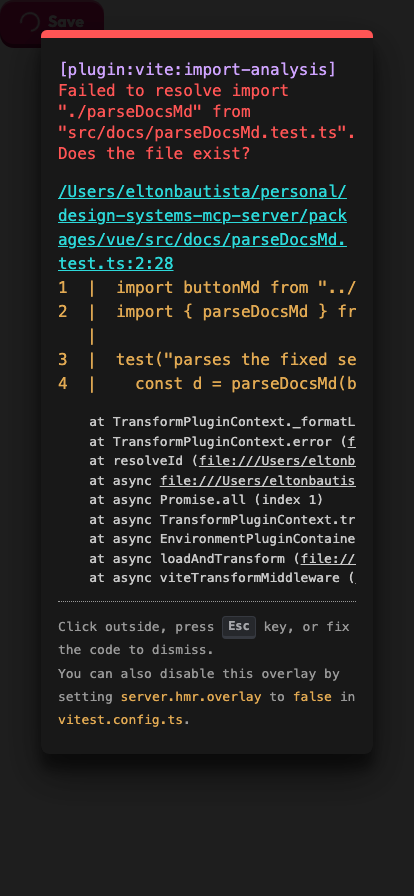
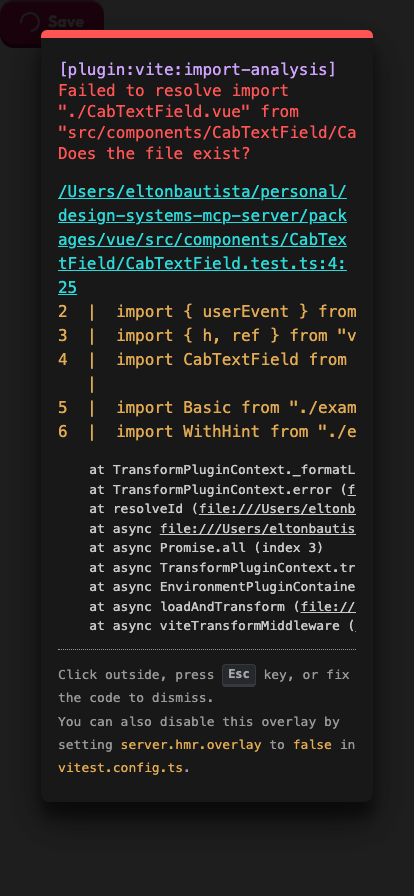
feat(vue): CabTextField

diff --git a/packages/vue/src/components/CabTextField/CabTextField.test.ts b/packages/vue/src/components/CabTextField/CabTextField.test.ts
@@ -1,0 +1,71 @@
+import { render } from 'vitest-browser-vue'
+import { userEvent } from 'vitest/browser'
+import { h, ref } from 'vue'
+import CabTextField from './CabTextField.vue'
+import Basic from './examples/Basic.vue'
+import WithHint from './examples/WithHint.vue'
+import WithError from './examples/WithError.vue'
+import { expectNoA11yViolations } from '../../../test/axe'
+
+const base = { modelValue: '', label: 'Email' }
+
+test('label is programmatically associated', async () => {
+  const screen = await render(CabTextField, { props: base })
+  await expect.element(screen.getByLabelText('Email')).toBeInTheDocument()
+})
+
+test('typing emits update:modelValue', async () => {
+  const screen = await render(CabTextField, { props: base })
+  await userEvent.type(screen.getByLabelText('Email'), 'a')
+  expect(screen.emitted('update:modelValue')?.at(-1)).toEqual(['a'])
+})
+
+test('hint and error are both in aria-describedby, error last', async () => {
+  const screen = await render(CabTextField, { props: { ...base, hint: 'We never share it.', error: 'Enter an email address.' } })
+  const input = screen.getByLabelText('Email').element()
+  const ids = input.getAttribute('aria-describedby')!.split(' ')
+  expect(ids).toHaveLength(2)
+  expect(document.getElementById(ids[0]!)!.textContent).toContain('We never share it.')
+  expect(document.getElementById(ids[1]!)!.textContent).toContain('Enter an email address.')
+})
+
+test('error sets aria-invalid="true" and renders the text with color.danger.text', async () => {
+  const screen = await render(CabTextField, { props: { ...base, error: 'Enter an email address.' } })
+  await expect.element(screen.getByLabelText('Email')).toHaveAttribute('aria-invalid', 'true')
+  const err = screen.getByText('Enter an email address.').element()
+  expect(getComputedStyle(err).color).toBe('rgb(180, 0, 42)')
+})
+
+test('no error means no aria-invalid and no empty describedby', async () => {
+  const screen = await render(CabTextField, { props: base })
+  const input = screen.getByLabelText('Email')
+  await expect.element(input).not.toHaveAttribute('aria-invalid')
+  await expect.element(input).not.toHaveAttribute('aria-describedby')
+})
+
+test('required shows a visual marker that is aria-hidden and sets the required attribute', async () => {
+  const screen = await render(CabTextField, { props: { ...base, required: true } })
+  await expect.element(screen.getByRole('textbox', { name: 'Email', exact: true })).toBeRequired()
+  const marker = screen.container.querySelector('.cab-field__required')!
+  expect(marker.getAttribute('aria-hidden')).toBe('true')
+})
+
+test('two instances get distinct ids', async () => {
+  const a = ref(''), b = ref('')
+  const screen = await render({
+    setup: () => () => [
+      h(CabTextField, { label: 'First', modelValue: a.value, hint: 'h1' }),
+      h(CabTextField, { label: 'Second', modelValue: b.value, hint: 'h2' }),
+    ],
+  })
+  const one = screen.getByLabelText('First').element(), two = screen.getByLabelText('Second').element()
+  expect(one.id).not.toBe(two.id)
+  expect(one.getAttribute('aria-describedby')).not.toBe(two.getAttribute('aria-describedby'))
+})
+
+test('examples have no axe violations', async () => {
+  for (const Ex of [Basic, WithHint, WithError]) {
+    const screen = await render(h(Ex))
+    await expectNoA11yViolations(screen.container)
+  }
+})

diff --git a/packages/vue/src/components/CabTextField/CabTextField.vue b/packages/vue/src/components/CabTextField/CabTextField.vue
@@ -1,0 +1,65 @@
+<script setup lang="ts">
+/**
+ * A single-line text input with a visible label, optional hint and an error message.
+ * Errors are announced through `aria-describedby` and marked with `aria-invalid`.
+ */
+import { computed, useId } from 'vue'
+import FieldError from '../FieldError.vue'
+
+defineOptions({ name: 'CabTextField' })
+
+const props = withDefaults(defineProps<{
+  /** Current value (use `v-model`). */
+  modelValue: string
+  /** Visible label. Required: placeholders are not labels. */
+  label: string
+  /** Helper text shown under the label and announced after it. */
+  hint?: string
+  /** Error message. When set, the field is marked invalid and the message is announced. */
+  error?: string
+  /** Native input type. */
+  type?: 'text' | 'email' | 'password' | 'tel' | 'url' | 'search'
+  /** Marks the field required (native `required` plus a visual asterisk). */
+  required?: boolean
+  /** Disables the field. */
+  disabled?: boolean
+  /** Native `autocomplete` token, e.g. `email` or `name`. */
+  autocomplete?: string
+  /** Placeholder example text. Never a substitute for `label` or `hint`. */
+  placeholder?: string
+}>(), { type: 'text', required: false, disabled: false })
+
+const emit = defineEmits<{
+  /** Fired on every input with the new value. */
+  'update:modelValue': [value: string]
+}>()
+
+const id = useId()
+const hintId = `${id}-hint`
+const errorId = `${id}-error`
+const describedBy = computed(() =>
+  [props.hint && hintId, props.error && errorId].filter(Boolean).join(' ') || undefined)
+</script>
+
+<template>
+  <div class="cab-field cab-text-field">
+    <label :for="id" class="cab-field__label">
+      {{ label }}<span v-if="required" class="cab-field__required" aria-hidden="true">*</span>
+    </label>
+    <p v-if="hint" :id="hintId" class="cab-field__hint">{{ hint }}</p>
+    <input
+      :id="id"
+      class="cab-control cab-focus"
+      :type="type"
+      :value="modelValue"
+      :required="required"
+      :disabled="disabled"
+      :autocomplete="autocomplete"
+      :placeholder="placeholder"
+      :aria-invalid="error ? 'true' : undefined"
+      :aria-describedby="describedBy"
+      @input="emit('update:modelValue', ($event.target as HTMLInputElement).value)"
+    >
+    <FieldError v-if="error" :id="errorId">{{ error }}</FieldError>
+  </div>
+</template>

diff --git a/packages/vue/src/styles/field.css b/packages/vue/src/styles/field.css
@@ -1,0 +1,29 @@
+/* Shared label / hint / error layout for form fields. */
+.cab-field { display: grid; gap: var(--cab-space-2); font-family: var(--cab-font-family-body); color: var(--cab-color-text-default); }
+.cab-field__label { font-size: var(--cab-font-size-md); font-weight: var(--cab-font-weight-bold); }
+.cab-field__required { color: var(--cab-color-action-primary-bg); margin-inline-start: var(--cab-space-1); }
+.cab-field__hint { font-size: var(--cab-font-size-sm); color: var(--cab-color-text-muted); }
+.cab-field__error {
+  display: flex; gap: var(--cab-space-2); align-items: baseline;
+  font-size: var(--cab-font-size-sm); font-weight: var(--cab-font-weight-medium);
+  color: var(--cab-color-danger-text);
+}
+.cab-field__error-icon { flex: none; width: 1em; height: 1em; translate: 0 0.15em; }
+.cab-control {
+  width: 100%;
+  box-sizing: border-box;
+  min-height: 48px;
+  padding: var(--cab-space-3) var(--cab-space-4);
+  border: 2px solid var(--cab-color-border-strong);
+  border-radius: var(--cab-radius-md);
+  background: var(--cab-color-bg-surface);
+  color: var(--cab-color-text-default);
+  font: inherit;
+  font-size: var(--cab-font-size-md);
+  transition: border-color var(--cab-motion-duration-base) var(--cab-motion-easing-standard),
+    box-shadow var(--cab-motion-duration-base) var(--cab-motion-easing-standard);
+}
+.cab-control::placeholder { color: var(--cab-color-text-muted); }
+.cab-control:hover:not(:disabled) { border-color: var(--cab-color-text-default); }
+.cab-control[aria-invalid='true'] { border-color: var(--cab-color-danger-text); }
+.cab-control:disabled { background: var(--cab-color-bg-sunken); color: var(--cab-color-text-muted); cursor: not-allowed; }

diff --git a/packages/vue/src/components/CabTextField/CabTextField.stories.ts b/packages/vue/src/components/CabTextField/CabTextField.stories.ts
@@ -1,0 +1,31 @@
+import type { Meta, StoryObj } from '@storybook/vue3-vite'
+import { ref } from 'vue'
+import CabTextField from './CabTextField.vue'
+import md from './CabTextField.docs.md?raw'
+import Basic from './examples/Basic.vue'
+import BasicSrc from './examples/Basic.vue?raw'
+import WithHint from './examples/WithHint.vue'
+import WithHintSrc from './examples/WithHint.vue?raw'
+import WithError from './examples/WithError.vue'
+import WithErrorSrc from './examples/WithError.vue?raw'
+import { docsDescription } from '../../docs/parseDocsMd'
+import { exampleStory } from '../../docs/stories'
+
+const meta = {
+  title: 'Components/CabTextField',
+  component: CabTextField,
+  parameters: { docs: { description: { component: docsDescription(md, 'CabTextField.docs.md') } } },
+  args: { modelValue: '', label: 'Email', type: 'email', hint: 'We only use it to send your ticket.' },
+  render: args => ({
+    components: { CabTextField },
+    setup: () => { const v = ref(args.modelValue); return { args, v } },
+    template: '<CabTextField v-bind="args" v-model="v" />',
+  }),
+} satisfies Meta<typeof CabTextField>
+export default meta
+type Story = StoryObj<typeof meta>
+
+export const Playground: Story = {}
+export const BasicExample: Story = exampleStory('Basic', Basic, BasicSrc)
+export const WithHintExample: Story = exampleStory('With hint', WithHint, WithHintSrc)
+export const WithErrorExample: Story = exampleStory('With error', WithError, WithErrorSrc)

diff --git a/packages/vue/src/components/FieldError.vue b/packages/vue/src/components/FieldError.vue
@@ -1,0 +1,14 @@
+<script setup lang="ts">
+/** Internal: an error message with a drawn warning icon, so colour is never the only signal. */
+defineProps<{ id: string }>()
+</script>
+
+<template>
+  <p :id="id" class="cab-field__error">
+    <svg class="cab-field__error-icon" viewBox="0 0 16 16" aria-hidden="true" focusable="false">
+      <circle cx="8" cy="8" r="7" fill="none" stroke="currentColor" stroke-width="2" />
+      <path d="M8 4.5v4.2M8 11.2v.3" stroke="currentColor" stroke-width="2" stroke-linecap="round" />
+    </svg>
+    <span><slot /></span>
+  </p>
+</template>

diff --git a/packages/vue/src/docs/stories.ts b/packages/vue/src/docs/stories.ts
@@ -1,0 +1,10 @@
+import type { Component } from 'vue'
+
+/** A Storybook story that renders an example SFC and shows its real source as the code snippet. */
+export function exampleStory(name: string, example: Component, code: string) {
+  return {
+    name,
+    render: () => ({ components: { Example: example }, template: '<Example />' }),
+    parameters: { docs: { source: { code, language: 'html' } } },
+  }
+}

diff --git a/packages/vue/src/components/CabTextField/examples/WithError.vue b/packages/vue/src/components/CabTextField/examples/WithError.vue
@@ -1,0 +1,11 @@
+<!-- Showing a validation error that names the problem and the fix. -->
+<script setup lang="ts">
+import { ref } from 'vue'
+import { CabTextField } from '@cabinet-ds/vue'
+
+const email = ref('pixel@')
+</script>
+
+<template>
+  <CabTextField v-model="email" label="Email" type="email" error="Add the part after @, like pixel@example.com." />
+</template>

diff --git a/packages/vue/src/components/CabTextField/examples/WithHint.vue b/packages/vue/src/components/CabTextField/examples/WithHint.vue
@@ -1,0 +1,11 @@
+<!-- A required email field with hint text. -->
+<script setup lang="ts">
+import { ref } from 'vue'
+import { CabTextField } from '@cabinet-ds/vue'
+
+const email = ref('')
+</script>
+
+<template>
+  <CabTextField v-model="email" label="Email" type="email" autocomplete="email" required hint="We only use it to send your ticket." />
+</template>

diff --git a/packages/vue/src/components/CabTextField/examples/Basic.vue b/packages/vue/src/components/CabTextField/examples/Basic.vue
@@ -1,0 +1,11 @@
+<!-- A labelled text field bound with v-model. -->
+<script setup lang="ts">
+import { ref } from 'vue'
+import { CabTextField } from '@cabinet-ds/vue'
+
+const name = ref('')
+</script>
+
+<template>
+  <CabTextField v-model="name" label="Your name" autocomplete="name" />
+</template>

diff --git a/packages/vue/src/index.ts b/packages/vue/src/index.ts
@@ -1,3 +1,5 @@
 import './styles/focus.css'
+import './styles/field.css'
 
 export { default as CabButton } from './components/CabButton/CabButton.vue'
+export { default as CabTextField } from './components/CabTextField/CabTextField.vue'

diff --git a/packages/vue/src/components/CabTextField/CabTextField.docs.md b/packages/vue/src/components/CabTextField/CabTextField.docs.md
@@ -1,0 +1,22 @@
+## Summary
+
+A single-line text input with a visible label, optional hint and error message. Use it for short free text such as names and email addresses. The label is always visible; placeholders are only for example values.
+
+## Pattern
+
+Native `<input>` with a `<label for>` association. Hint and error follow the [WAI form instructions](https://www.w3.org/WAI/tutorials/forms/instructions/) and [validation](https://www.w3.org/WAI/tutorials/forms/notifications/) guidance.
+
+## Keyboard
+
+| Key | Action |
+| --- | --- |
+| Tab / Shift+Tab | Moves focus to and from the field. |
+| Any character | Edits the value. |
+
+## Focus
+
+A 3px purple ring with a 3px offset on keyboard focus. The border also darkens on hover. Invalid fields keep a red border and add a drawn warning icon, so colour is never the only signal.
+
+## Screen reader
+
+Announced as "*label*, edit text", plus "required" and "invalid entry" when they apply. The hint and the error are linked with `aria-describedby` (hint first, then error), so both are read after the label. The required asterisk is hidden from assistive tech because the native `required` attribute already announces it.
